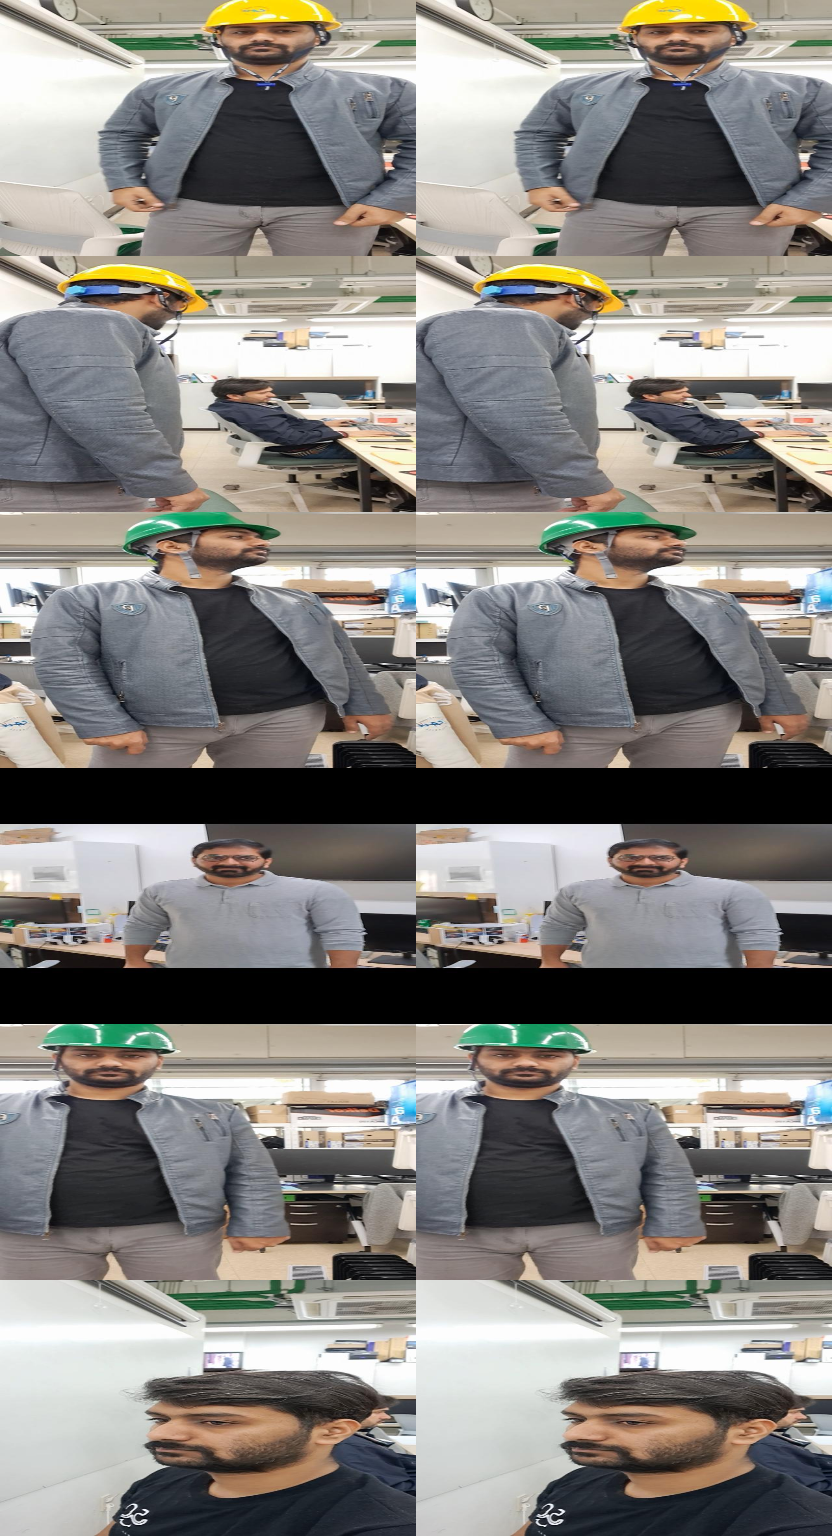
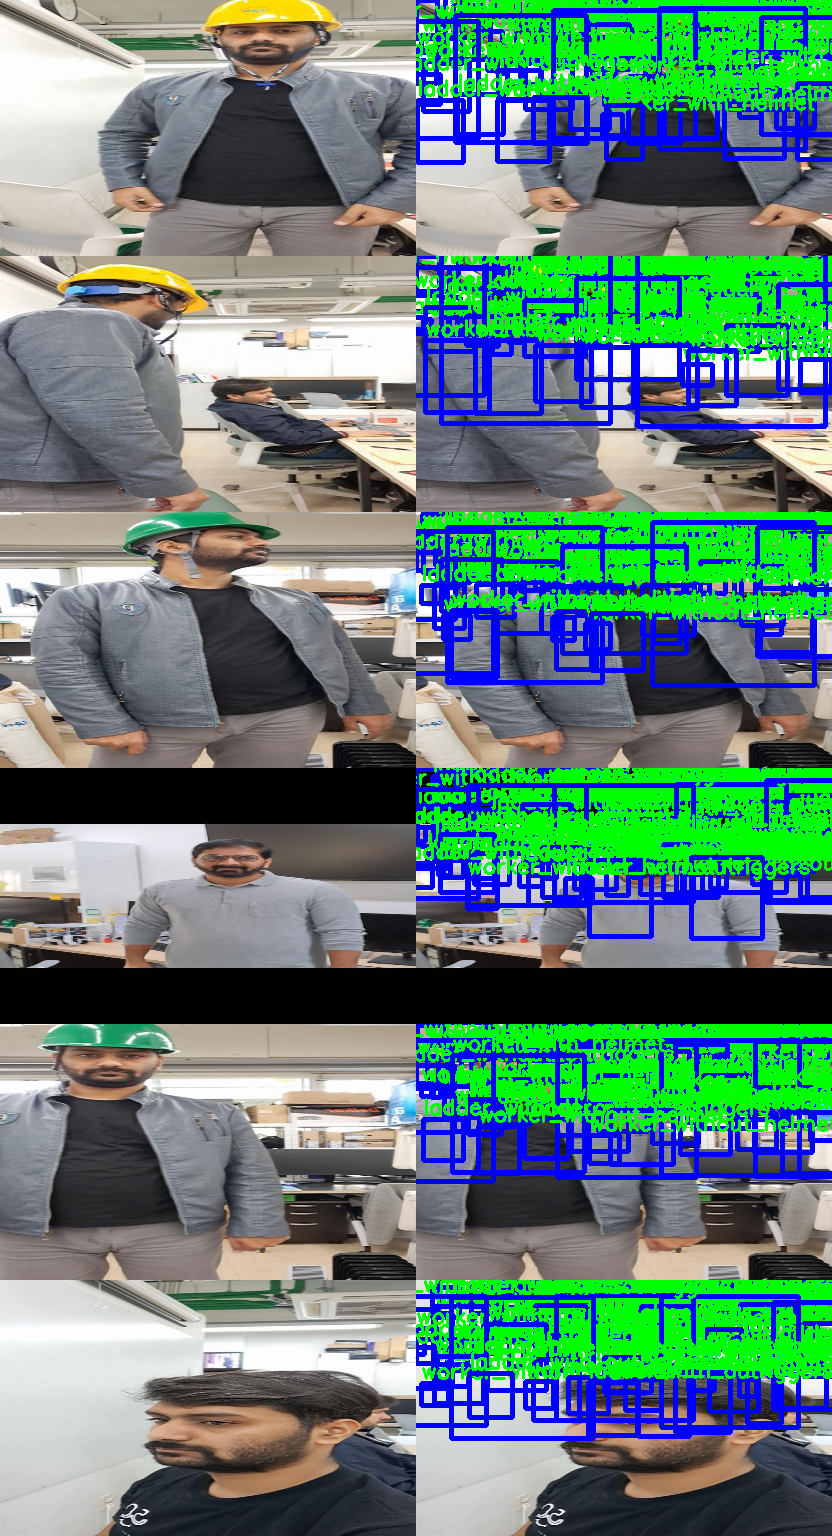
solved dimension and giving hundreds of detections with .onnx file

diff --git a/July_30_PPE_RT_copy/J_30_inference_running_ppe.py b/July_30_PPE_RT_copy/J_30_inference_running_ppe.py
@@ -208,11 +208,21 @@ def inference(args):
     sys.path.append(args.post_process_dir)
     print(f"TRACE: inference -> importing post_process from {args.post_process_dir}", flush=True)
     
-    # Initialize YOLOv9 decoder with configuration
+    # # Initialize YOLOv9 decoder with configuration
+    # post_process_module = importlib.import_module('post_process')
+    # args.post = post_process_module.Decoder(args.post_config_data)
+    # print("TRACE: inference -> post_process.Decoder instantiated", flush=True)
+    
+        # Initialize YOLOv9 decoder with configuration
     post_process_module = importlib.import_module('post_process')
     args.post = post_process_module.Decoder(args.post_config_data)
-    print("TRACE: inference -> post_process.Decoder instantiated", flush=True)
     
+    # DEBUG: Temporarily lower confidence threshold for testing
+    print(f"DEBUG: Original confidence threshold: {args.post.obj_threshold[0]}", flush=True)
+    
+    print("TRACE: inference -> post_process.Decoder instantiated", flush=True)
+
+
     # # DEBUG: Print ALL attributes of the decoder instance
     # print(f"ALL Decoder attributes:")
     # for attr in dir(args.post):
@@ -242,9 +252,96 @@ def inference(args):
         # Using size that makes split_logits work: n_grid * (n_box + n_classes)
         # From config: n_grid appears to be 1092, with 4 box + 4 class = 8 channels
         # Total: 1092 * 8 = 8736 (this matches the error message)
-        args.ret = {'buf': np.random.randn(8736).astype(np.float32)}
+        #args.ret = {'buf': np.random.randn(8736).astype(np.float32)}
+        #print("TRACE: inference -> placeholder result created (replace with your CPU inference)", flush=True)
+
+        # Use ONNX model for CPU inference
+        try:
+            import onnxruntime as ort
+            
+            # Load your eval.onnx model
+            onnx_path = args.post_process_dir + "/eval.onnx"
+            print(f"TRACE: Loading ONNX model from {onnx_path}", flush=True)
+            
+            # Create ONNX Runtime session for CPU
+            session = ort.InferenceSession(onnx_path, providers=['CPUExecutionProvider'])
+            
+            # Get input/output info
+            input_name = session.get_inputs()[0].name
+            input_shape = session.get_inputs()[0].shape
+            print(f"TRACE: ONNX input name: {input_name}", flush=True)
+            print(f"TRACE: ONNX input shape: {input_shape}", flush=True)
+            
+            # Prepare input data
+            input_data = image.astype(np.float32) / 255.0  # Normalize to [0,1]
+            
+            # Check if we need NCHW format (Batch, Channel, Height, Width)
+            if len(input_shape) == 4 and input_shape[1] == 3:
+                # Convert BHWC to BCHW for ONNX
+                input_data = np.transpose(input_data, (0, 3, 1, 2))
+                print("TRACE: Converted input to NCHW format for ONNX", flush=True)
+            
+            # Run inference on CPU
+            print("TRACE: Running ONNX inference on CPU...", flush=True)
+            outputs = session.run(None, {input_name: input_data})
+            
+            # Get output data and flatten it
+            # output_data = outputs[0].flatten()
+            
+            # args.ret = {'buf': output_data}
+            # print(f"TRACE: ONNX CPU inference complete!", flush=True)
+            # print(f"TRACE: Output size: {output_data.size} (expected: 8736)", flush=True)
+            
+            # # Check if size matches expectation
+            # if output_data.size != 8736:
+            #     print(f"INFO: ONNX output size {output_data.size} differs from expected 8736", flush=True)
+            #     print("INFO: This is normal - ONNX may have different output format than .tachyrt", flush=True)
+            
+                        # Get output data and flatten it
+            output_data = outputs[0].flatten()
+            
+            # DEBUG: Print output information
+            print(f"DEBUG: ONNX raw output shape: {outputs[0].shape}", flush=True)
+            print(f"DEBUG: ONNX flattened size: {output_data.size}", flush=True)
+            print(f"DEBUG: Expected channels: 8 (4 box + 4 classes)", flush=True)
+            print(f"DEBUG: Calculated grid cells: {output_data.size // 8}", flush=True)
+            
+            args.ret = {'buf': output_data}
+            print(f"TRACE: ONNX CPU inference complete!", flush=True)
+            print(f"TRACE: Output size: {output_data.size} (expected: 8736)", flush=True)
+            
+            # Check if size matches expectation and adjust
+            if output_data.size != 8736:
+                print(f"INFO: ONNX output size {output_data.size} differs from expected 8736", flush=True)
+                print("INFO: Adjusting post-processing configuration to match ONNX output", flush=True)
+                
+                # Update the decoder's n_grid to match ONNX output
+                args.post.n_grid = output_data.size // 8
+                print(f"INFO: Updated n_grid from 1092 to {args.post.n_grid}", flush=True)
+
+
+        except ImportError:
+            print("ERROR: onnxruntime not installed. Install with: pip install onnxruntime", flush=True)
+            print("TRACE: Falling back to fake data...", flush=True)
+            # Create fake data fallback
+            args.ret = {'buf': np.random.randn(8736).astype(np.float32)}
+            
+        except FileNotFoundError:
+            print(f"ERROR: eval.onnx not found at {onnx_path}", flush=True)
+            print("TRACE: Make sure eval.onnx is in the correct directory", flush=True)
+            print("TRACE: Falling back to fake data...", flush=True)
+            # Create fake data fallback
+            args.ret = {'buf': np.random.randn(8736).astype(np.float32)}
+            
+        except Exception as e:
+            print(f"ERROR: ONNX inference failed: {e}", flush=True)
+            print("TRACE: Falling back to fake data...", flush=True)
+            # Create fake data fallback
+            args.ret = {'buf': np.random.randn(8736).astype(np.float32)}
 
         #print("TRACE: inference -> placeholder result created (replace with your CPU inference)", flush=True)
+
+
 
         # Convert raw output buffer to float32 for post-processing
         try:
